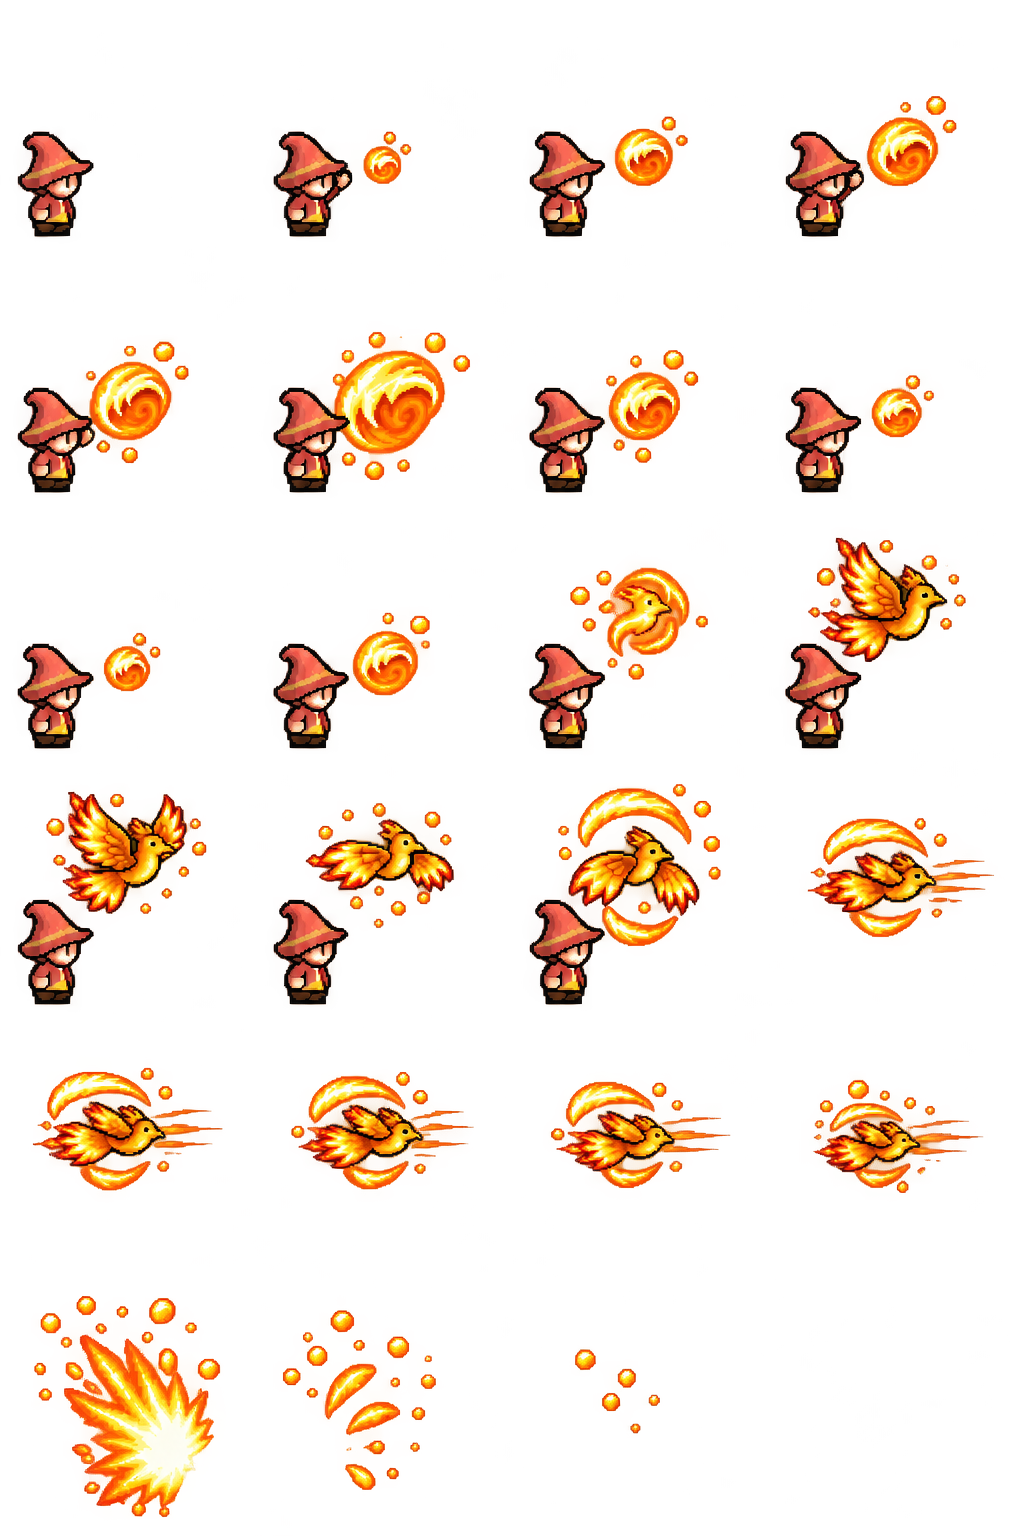
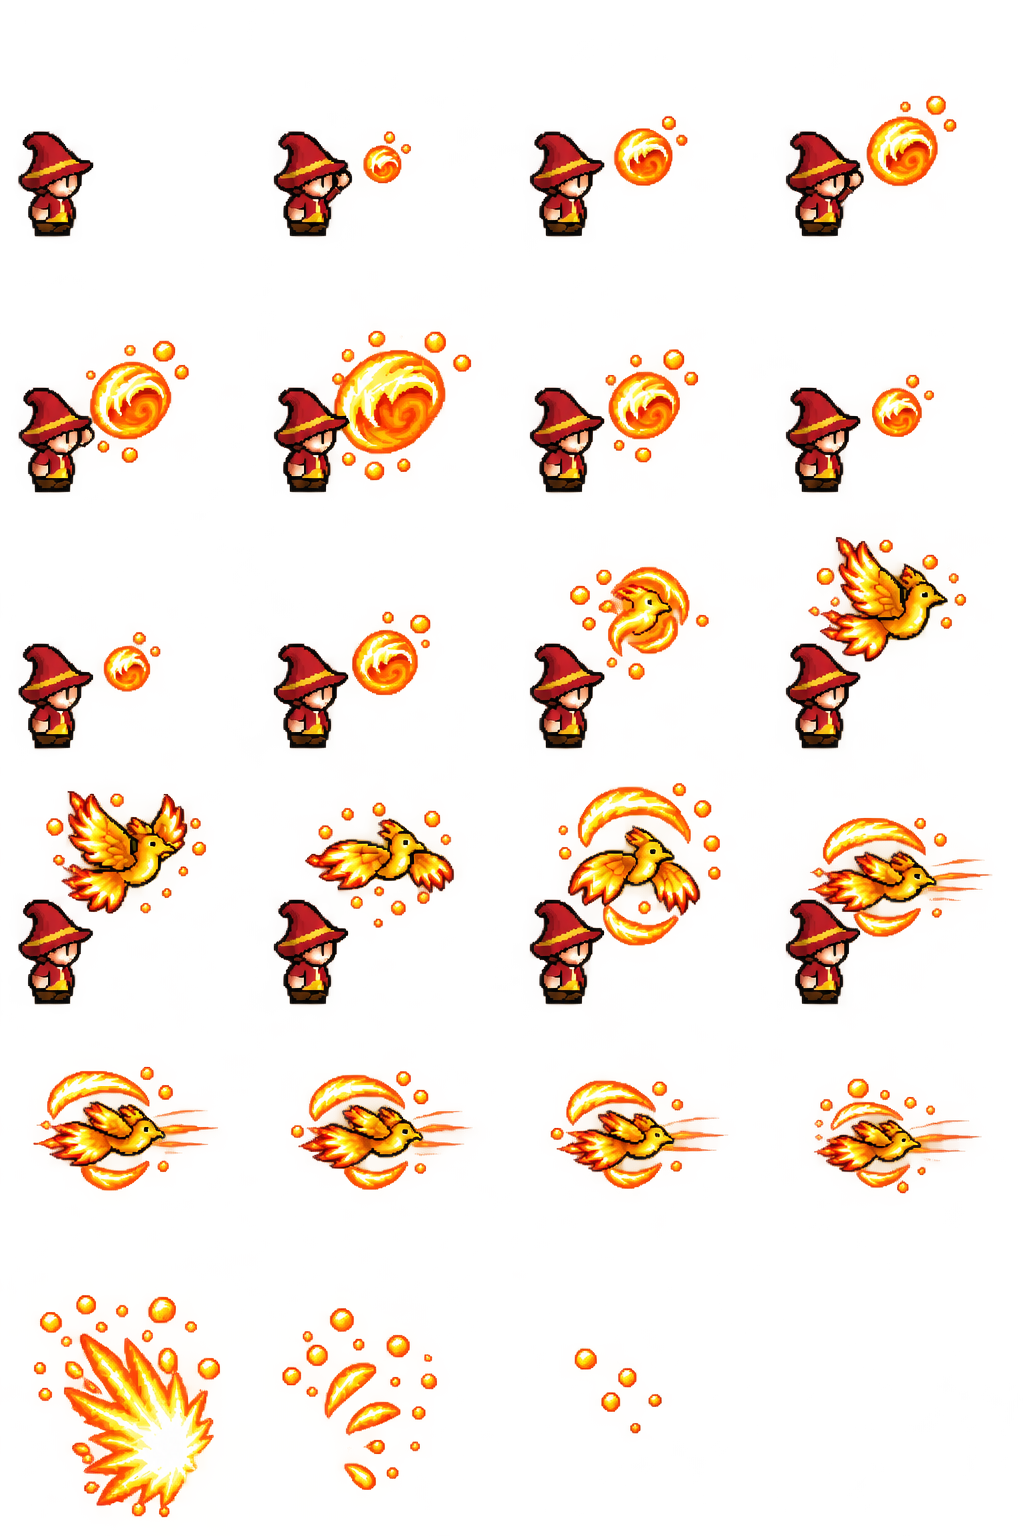
Match Xineoph caster reds and reduce Poseidon's Rift to six Mana

diff --git a/test/conditional-mana-migration.test.js b/test/conditional-mana-migration.test.js
@@ -502,12 +502,12 @@ test('migrated pending Fire-9 uses its new post-gain Mana condition once without
 });
 
 
-const previousCost = { 'Fire-11': 3, 'Water-12': 4 };
-function costSnapshotFresh(first = 0) {
+const previousCost = { 'Fire-11': 3, 'Water-12': 4, 'Water-14': 8 };
+function costSnapshotFresh(first = 0, waterSpell = 'Water-12') {
   const definition = (element, spellId, fateId) => ({ element, entries: [
     { spellId, quantity: 3 }, { spellId: fateId, quantity: 1 }, { spellId: 'FAT-003', quantity: 1 },
   ] });
-  let state = createGame(89, { fire: definition('fire', 'Fire-11', 'FAT-001'), water: definition('water', 'Water-12', 'FAT-002') });
+  let state = createGame(89, { fire: definition('fire', 'Fire-11', 'FAT-001'), water: definition('water', waterSpell, 'FAT-002') });
   state = rollInitiative(rollInitiative(state, 0, () => first === 0 ? .9 : 0), 1, () => first === 1 ? .9 : 0);
   for (const player of state.players) Object.assign(player, { mana: 10, element: 2, loadedPending: 2 });
   return state;
@@ -527,31 +527,31 @@ function previouslyPaidCostCast(state, spellId) {
   return cast;
 }
 
-test('current-text Fire-11 and Water-12 previous prices refresh across all zones without changing selected state', () => {
-  for (const first of [0, 1]) {
-    const current = costSnapshotFresh(first);
+test('current-text prior prices refresh across all zones without changing selected state or decklists', () => {
+  for (const waterSpell of ['Water-12', 'Water-14']) for (const first of [0, 1]) {
+    const current = costSnapshotFresh(first, waterSpell);
     for (const player of current.players) {
-      const spellId = player.id === 'fire' ? 'Fire-11' : 'Water-12';
+      const spellId = player.id === 'fire' ? 'Fire-11' : waterSpell;
       for (const zone of ['deck', 'discard']) player[zone].push(player.hand.splice(player.hand.findIndex(card => card.spellId === spellId), 1)[0]);
       Object.assign(player, { hp: 81, shield: 17, loaded: 4, enhancement: 20, auraTurns: 2 });
     }
-    const selected = selectCard(current, current.players[first].hand.find(card => card.spellId === (first === 0 ? 'Fire-11' : 'Water-12')).id);
+    const selected = selectCard(current, current.players[first].hand.find(card => card.spellId === (first === 0 ? 'Fire-11' : waterSpell)).id);
     const previous = previousCostSnapshots(selected), before = structuredClone(previous);
     assert.equal(validateSavedGame(previous), false);
     const upgraded = migrateSavedGame(previous);
     assert.deepEqual(upgraded, selected); assert.deepEqual(previous, before);
-    for (const player of upgraded.players) for (const card of cardsOf(player)) if (Object.hasOwn(previousCost, card.spellId)) assert.deepEqual([card.manaCost, card.cost], card.spellId === 'Fire-11' ? [2, 2] : [3, 3]);
+    for (const player of upgraded.players) for (const card of cardsOf(player)) if (Object.hasOwn(previousCost, card.spellId)) assert.deepEqual([card.manaCost, card.cost], [SPELL_CATALOG[card.spellId].manaCost, SPELL_CATALOG[card.spellId].manaCost]);
     assert.equal(migrateSavedGame(upgraded), upgraded);
     const newCast = castSelected(upgraded);
-    const cost = first === 0 ? 2 : 3;
+    const cost = first === 0 ? 2 : SPELL_CATALOG[waterSpell].manaCost;
     assert.equal(newCast.players[first].mana, 10 - cost);
     assert.match(newCast.log.findLast(entry => entry.type === 'cast').message, new RegExp(`for ${cost} mana`));
   }
 });
 
-test('previous three/four-Mana payments and cast logs survive price refresh through pending and completed rolls', () => {
-  for (const [spellId, first, finalMana] of [['Fire-11', 0, 8], ['Water-12', 1, 6]]) {
-    const rolling = previouslyPaidCostCast(costSnapshotFresh(first), spellId);
+test('previous Mana payments and cast logs survive price refresh through pending and completed rolls', () => {
+  for (const [spellId, first, finalMana] of [['Fire-11', 0, 8], ['Water-12', 1, 6], ['Water-14', 1, 2]]) {
+    const rolling = previouslyPaidCostCast(costSnapshotFresh(first, spellId.startsWith('Water') ? spellId : 'Water-12'), spellId);
     const fate = rollPair(rolling, [3, 4]), resolving = passFate(fate), completed = resolveSpell(resolving);
     assert.equal(completed.players[first].mana, finalMana);
     for (const current of [rolling, fate, resolving, completed]) {
@@ -572,15 +572,16 @@ test('previous three/four-Mana payments and cast logs survive price refresh thro
 });
 
 test('price refresh rejects mismatched fields, unknown prices and unpaired canonical descriptions', () => {
-  for (const spellId of ['Fire-11', 'Water-12']) {
+  for (const spellId of ['Fire-11', 'Water-12', 'Water-14']) {
     const currentCost = SPELL_CATALOG[spellId].manaCost;
+    const freshPrice = () => previousCostSnapshots(costSnapshotFresh(0, spellId.startsWith('Water') ? spellId : 'Water-12'));
     for (const [manaCost, cost] of [[previousCost[spellId], currentCost], [currentCost, previousCost[spellId]], [1, 1], [previousCost[spellId], undefined]]) {
-      const previous = previousCostSnapshots(costSnapshotFresh()), card = cardsOf(previous.players[spellId === 'Fire-11' ? 0 : 1]).find(card => card.spellId === spellId);
+      const previous = freshPrice(), card = cardsOf(previous.players[spellId === 'Fire-11' ? 0 : 1]).find(card => card.spellId === spellId);
       Object.assign(card, { manaCost, cost });
       assert.equal(migrateSavedGame(previous), null, `${spellId}: ${manaCost}/${cost}`);
     }
     for (const key of ['effectText', 'description']) {
-      const previous = previousCostSnapshots(costSnapshotFresh()), card = cardsOf(previous.players[spellId === 'Fire-11' ? 0 : 1]).find(card => card.spellId === spellId);
+      const previous = freshPrice(), card = cardsOf(previous.players[spellId === 'Fire-11' ? 0 : 1]).find(card => card.spellId === spellId);
       card[key] = 'Unexpected rules text.';
       assert.equal(migrateSavedGame(previous), null, `${spellId}: ${key}`);
     }

diff --git a/test/spell-visuals.test.js b/test/spell-visuals.test.js
@@ -106,20 +106,20 @@ test('damage routing covers Mana boundaries while Shield and power-up override t
   }
 });
 
-test('resumed casts at prior Fire-11 and Water-12 prices animate once without changing paid costs', () => {
-  for (const [spellId, casterIndex, oldCost] of [['Fire-11', 0, 3], ['Water-12', 1, 4]]) {
-    let initial = fresh({ fire: ['Fire-11'], water: ['Water-12'] });
+test('resumed casts at prior prices animate once without changing paid costs', () => {
+  for (const [spellId, casterIndex, oldCost, currentCost, kind] of [['Fire-11', 0, 3, 2, 'basic-attack'], ['Water-12', 1, 4, 3, 'basic-attack'], ['Water-14', 1, 8, 6, 'large-cast']]) {
+    let initial = fresh({ fire: ['Fire-11'], water: ['Water-12', 'Water-14'] });
     if (casterIndex === 1) initial = pass(initial);
     initial.players[casterIndex].mana = 10;
     const pending = cast(initial, spellId);
-    assert.equal(SPELL_CATALOG[spellId].manaCost, spellId === 'Fire-11' ? 2 : 3);
+    assert.equal(SPELL_CATALOG[spellId].manaCost, currentCost);
     pending.players[casterIndex].mana = 10 - oldCost;
     const commitment = pending.log.findLast(entry => entry.type === 'cast');
     commitment.message = `${pending.players[casterIndex].name} casts ${spellId} for ${oldCost} mana.`;
     const snapshot = structuredClone(pending), after = complete(pending);
     const events = getResolvedSpellVisuals(pending, after);
     assert.equal(events.length, 1);
-    assert.equal(events[0].spellId, spellId); assert.equal(events[0].kind, 'basic-attack');
+    assert.equal(events[0].spellId, spellId); assert.equal(events[0].kind, kind);
     assert.equal(events[0].manaCost, SPELL_CATALOG[spellId].manaCost);
     assert.equal(after.log.findLast(entry => entry.type === 'cast').message, commitment.message);
     assert.deepEqual(pending, snapshot);

diff --git a/test/game.test.js b/test/game.test.js
@@ -153,6 +153,20 @@ test('cast pays resources and consumes available Loaded once before any post-rol
   assert.equal(state.players[0].hand.length, 1); assert.equal(state.players[0].discard.length, 0);
   assert.equal(skipFate(state), state); assert.equal(castFateSelected(state), state);
   assert.equal(initial.players[0].mana, 6); assert.equal(initial.players[0].element, 4); assertGame(state);
+
+  const water = handOf(fresh({ first: 1, water: ['Water-14'] }), 1, ['Water-14']);
+  Object.assign(water.players[1], { mana: 5, element: 3, loaded: 2 });
+  const selected = selectCard(water, water.players[1].hand[0].id), before = structuredClone(selected);
+  assert.equal(canCastSelected(selected), false, "Poseidon's Rift cannot be cast for five Mana");
+  assert.equal(castSelected(selected), selected); assert.deepEqual(selected, before);
+  selected.players[1].mana = 6;
+  assert.equal(canCastSelected(selected), true, 'exactly six Mana is sufficient');
+  const pending = castSelected(selected);
+  assert.deepEqual([pending.phase, pending.players[1].mana, pending.players[1].loaded, pending.players[1].element], ['rolling', 0, 0, 3]);
+  assert.equal(pending.pendingSpell.loadedBonus, 2);
+  const resolved = complete(pending, [3, 3]);
+  assert.deepEqual([resolved.players[0].hp, resolved.players[1].mana, resolved.players[1].element], [58, 0, 4]);
+  assert.equal(resolveSpell(resolved), resolved); assertGame(resolved);
 });
 
 test('optional Ember bounds reject bad spending and Sunsetter holds its bank until resolution', () => {

diff --git a/test/decks.test.js b/test/decks.test.js
@@ -13,7 +13,7 @@ import {
 
 const legal = element => ({ element, entries: getEligibleSpells(element).slice(0, 10).map(card => ({ spellId: card.spellId, quantity: 3 })) });
 
-test('the sole active book has the requested names, stable IDs, current effects and original costs and art', () => {
+test('the sole active book has the requested names, stable IDs, current effects, costs and art', () => {
   const expected = {
     'Fire-2': ['Heatbox', 1, 'Gain 1 Ember. On a 7+, gain 2 Embers instead. On a 10+, gain 3 instead.'],
     'Fire-15': ['Blaze', 0, 'Gain 1 Ember. On a 6+, gain 1 Mana.'],
@@ -24,7 +24,7 @@ test('the sole active book has the requested names, stable IDs, current effects 
     'Water-0': ['Swell', 0, 'Gain 1 Mana on cast. On a 7+, gain 1 additional Flow after resolution.'],
     'Water-12': ['Coral Crash', 3, 'Deal 12 + 2 × Flow damage. On a 7+, heal 2 HP per Flow.'],
     'Water-9': ['Pacific', 2, 'Deal 6 + 2 × Flow damage. Gain 1 additional Flow after resolution. On a 10+, deal 5 additional damage.'],
-    'Water-14': ["Poseidon's Rift", 8, 'Deal 15 + 5 × Flow damage. On an 8+, deal 12 additional damage.'],
+    'Water-14': ["Poseidon's Rift", 6, 'Deal 15 + 5 × Flow damage. On an 8+, deal 12 additional damage.'],
   };
   assert.equal(ACTIVE_SPELLBOOK_ID, SPELLBOOK_2);
   assert.equal(getActiveSpells().length, 13);

diff --git a/test/effects.test.js b/test/effects.test.js
@@ -121,7 +121,7 @@ test('the current collection completely replaces old IDs and has no starter comp
   }
   assert.deepEqual([MAX_HP, MAX_MANA, MAX_SHIELD, MAX_FLOW, MAX_EMBERS], [100, 10, 30, 5, 5]);
   assert.deepEqual(Object.values(SPELL_CATALOG).filter(s => s.element === 'Fire').map(s => s.manaCost), [0,1,1,2,2,3,5,7,2,2,3,2,4,6,8,0]);
-  assert.deepEqual(Object.values(SPELL_CATALOG).filter(s => s.element === 'Water').map(s => s.manaCost), [0,1,1,2,2,3,5,7,2,2,3,3,3,6,8]);
+  assert.deepEqual(Object.values(SPELL_CATALOG).filter(s => s.element === 'Water').map(s => s.manaCost), [0,1,1,2,2,3,5,7,2,2,3,3,3,6,6]);
   assert.equal(SOURCE_INFO.playableSpellCount, 13);
   assert.deepEqual(SOURCE_INFO.additionalSpells, ['Fire-0', 'Fire-15', 'Water-0']);
   assert.deepEqual([SOURCE_INFO.spellbook.librarySpellCount, SOURCE_INFO.spellbook.importedSpellCount], [31, 31]);

diff --git a/src/optimized-art.js b/src/optimized-art.js
@@ -296,9 +296,9 @@ export const OPTIMIZED_ART = {
[1 lines of base64/hex data omitted]
   },
   "phoenixFireAnimation": {
-    "file": "phoenixFireAnimation-681863dcf00a.webp",
[2 lines of base64/hex data omitted]
+    "file": "phoenixFireAnimation-a5ecc11edabf.webp",
[2 lines of base64/hex data omitted]
   },
   "pacificDolphinAnimation": {
     "file": "pacificDolphinAnimation-ab0c236a41be.webp",

diff --git a/src/spell-visuals.js b/src/spell-visuals.js
@@ -72,7 +72,7 @@ function castSpellId(entry, player) {
   const visual = getSpellVisual(spellId);
   if (!visual || visual.element.toLowerCase() !== player.id) return null;
   // Resumed casts keep their historical payment while using current visuals.
-  const previousCost = spellId === 'Fire-11' ? 3 : spellId === 'Water-12' ? 4 : null;
+  const previousCost = spellId === 'Fire-11' ? 3 : spellId === 'Water-12' ? 4 : spellId === 'Water-14' ? 8 : null;
   const legacyCost = previousCost !== null && entry.message === `${prefix}${printedName} for ${previousCost} mana.`;
   return entry.message.startsWith(`${prefix}${printedName} for ${visual.manaCost} mana`) || legacyCost ? spellId : null;
 }

diff --git a/src/spells.js b/src/spells.js
@@ -57,7 +57,7 @@ const water = [
   [11, 3, 'Deal 8 + Flow damage and gain +2 to your next roll. On a 7+, gain 1 additional Flow after resolution.'],
   [12, 3, 'Deal 12 + 2 × Flow damage. On a 7+, heal 2 HP per Flow.'],
   [13, 6, 'Deal 20 + 3 × Flow damage. On a 7+, deal 10 additional damage.'],
-  [14, 8, 'Deal 15 + 5 × Flow damage. On an 8+, deal 12 additional damage.'],
+  [14, 6, 'Deal 15 + 5 × Flow damage. On an 8+, deal 12 additional damage.'],
 ];
 const purposes = ['Basic attack', 'Early identity', 'Defensive utility', 'Strategic preparation', 'Specialized damage', 'Heavy attack', 'Signature spell'];
 const fate = (id, name, role, effectText) => Object.freeze({

diff --git a/test/named-spellbook-migration.test.js b/test/named-spellbook-migration.test.js
@@ -87,7 +87,7 @@ test('pending and completed named spells preserve paid costs and old log text wh
 });
 
 test('legacy paid prices remain historical through rename migration and animation collection', () => {
-  for (const [spellId, playerIndex, oldCost] of [['Fire-11', 0, 3], ['Water-12', 1, 4]]) {
+  for (const [spellId, playerIndex, oldCost] of [['Fire-11', 0, 3], ['Water-12', 1, 4], ['Water-14', 1, 8]]) {
     const previous = oldNames(rolling(spellId));
     const paid = previous.players[playerIndex], card = paid.hand[0];
     paid.mana += card.manaCost - oldCost; card.manaCost = card.cost = oldCost;

diff --git a/src/game.js b/src/game.js
@@ -836,7 +836,7 @@ function refreshCurrentSpellCards(state) {
     'Fire-15': ['Gain 1 Ember and 1 Mana.', 'Gain 1 Ember. On a 7+, gain 1 Mana.'],
     'Water-0': ['Gain 1 Mana.', 'On a 7+, gain 1 Mana.'],
   };
-  const previousCosts = { 'Fire-11': 3, 'Water-12': 4 };
+  const previousCosts = { 'Fire-11': 3, 'Water-12': 4, 'Water-14': 8 };
   let changed = false;
   const upgradedWaterCards = new Set();
   const upgradedSunsetterCards = new Set();

diff --git a/README.md b/README.md
@@ -34,7 +34,7 @@ For two phones on the same Wi-Fi, run `npm run build:web` followed by `npm run m
 
 The title screen opens a Home map using the clean pixel-art Seattle landmark illustration, with draggable/zoomable city, water and islands. The approved **rough 8-bit Home UI** is now live: navy/indigo framing with wood and parchment details around the header, map, zoom toolbar and navigation buttons. **Fit / 1×** fills the map panel; the header, zoom toolbar and navigation dock stay outside the city. The same 14 grey district markers **1–12, 14 and 15** open **Storybook** with only that district expanded. Queen Anne is merged into **15, Seattle Center**; marker 13 and 4.5 are removed, and **14 is South Lake Union**. Storybook shows a minimal **Mainquest N** label and assigned boss name per district; unassigned bosses are left blank. Its beige pixel-paper theme uses the slab cards' font style. The general Storybook button above Character opens all districts collapsed, and leaving the book clears expanded entries. Markers open this view rather than district mini-maps. The red blinking dot remains a preview position; GPS gating, quest completion, rewards and photo uploads are not implemented. Home also links to Character, Deck, Friends and Battle. Character keeps a wizard name and Fire/Water choice and links to account sign-in. Friends provides room-code battles; friend lists, invitations and messaging remain later additions.
 
-Inside **Deck**, the sole current spellbook contains **Heatbox, Blaze, Charred Blade, Xineoph and Sunsetter; Sea bolt, Swell, Coral Crash, Pacific and Poseidon's Rift; and Fortune, Misfortune and Twist**. Charred Blade uses Fire-6 and replaces Fire-5 from the former testing collection. Stable IDs and Mana costs are retained. Each held Ember grants +5% Fire damage, up to +25%, then is consumed by the next outgoing damaging Fire spell before that spell grants new Embers. Charred Blade now deals 20 damage, or 30 and gains 2 Embers on 7+; Sunsetter deals 55 damage, or 65 on 8+, without an Ember-spending cost. Blaze gains Mana on 6+. Xineoph uses the approved solid-gold phoenix with flowing light blades, sparkles and a subtle fiery background; Charred Blade keeps its rough pixel-art flaming sword. The old Spellbook 1/2 switch is removed; the former testing collection is now the active book. Existing current decks are preferred, while earlier decks are retained for backup and review. **The 5%-per-Ember damage bonus is consumed on a damaging Fire spell, not at round end.**
+Inside **Deck**, the sole current spellbook contains **Heatbox, Blaze, Charred Blade, Xineoph and Sunsetter; Sea bolt, Swell, Coral Crash, Pacific and Poseidon's Rift; and Fortune, Misfortune and Twist**. Charred Blade uses Fire-6 and replaces Fire-5 from the former testing collection. Stable IDs are retained; Poseidon's Rift now costs 6 Mana. Each held Ember grants +5% Fire damage, up to +25%, then is consumed by the next outgoing damaging Fire spell before that spell grants new Embers. Charred Blade now deals 20 damage, or 30 and gains 2 Embers on 7+; Sunsetter deals 55 damage, or 65 on 8+, without an Ember-spending cost. Blaze gains Mana on 6+. Xineoph uses the approved solid-gold phoenix with flowing light blades, sparkles and a subtle fiery background; Charred Blade keeps its rough pixel-art flaming sword. The old Spellbook 1/2 switch is removed; the former testing collection is now the active book. Existing current decks are preferred, while earlier decks are retained for backup and review. **The 5%-per-Ember damage bonus is consumed on a damaging Fire spell, not at round end.**
 
 The deck builder places a scrollable selected-deck list in the upper half and a slab collection in the lower half, with four cards per collection row. Check a slab to add its first copy, use the quantity controls to add or remove further copies, and uncheck it to remove all copies. Filters cover All, Fire, Water, Fate, and slabs currently in the deck. The collection shows only the current named spellbook’s slabs; only those eligible for the chosen main element can be added.
 

diff --git a/docs/decklists.md b/docs/decklists.md
@@ -2,7 +2,7 @@
 
 The game exposes one active spellbook containing **13 unique slabs: five Fire, five Water and three Fate**. The former Spellbook 1 selector is removed. The former testing collection is now the current collection, with Fire-6 replacing Fire-5. Stable internal IDs retain saved-file and artwork references; the following names appear on live cards, deck lists, inspections and new combat logs.
 
-Mana costs and stable IDs are retained. **Each held Ember grants +5% outgoing Fire damage, up to +25%, and the held bank is consumed by the next damaging Fire spell before that spell grants new Embers.** Embers have no turn or round expiry. Charred Blade, Sunsetter and Blaze use the revised effects below. Xineoph and Pacific use dedicated phoenix and dolphin animations; their card artwork, the flaming sword, Water Flow, Fate timing, Enhancement and Aura remain unchanged.
+Stable IDs are retained; Poseidon's Rift now costs 6 Mana. **Each held Ember grants +5% outgoing Fire damage, up to +25%, and the held bank is consumed by the next damaging Fire spell before that spell grants new Embers.** Embers have no turn or round expiry. Charred Blade, Sunsetter and Blaze use the revised effects below. Xineoph and Pacific use dedicated phoenix and dolphin animations; their card artwork, the flaming sword, Water Flow, Fate timing, Enhancement and Aura remain unchanged.
 
 ## Active cards
 
@@ -17,7 +17,7 @@ Mana costs and stable IDs are retained. **Each held Ember grants +5% outgoing Fi
 | Water-0 | Swell | 0 | Gain 1 Mana on cast. On 7+, gain 1 additional Flow after resolution. |
 | Water-12 | Coral Crash | 3 | Deal 12 + 2 × Flow damage. On 7+, heal 2 HP per Flow. |
 | Water-9 | Pacific | 2 | Deal 6 + 2 × Flow damage. Gain 1 additional Flow after resolution. On 10+, deal 5 additional damage. |
-| Water-14 | Poseidon's Rift | 8 | Deal 15 + 5 × Flow damage. On 8+, deal 12 additional damage. |
+| Water-14 | Poseidon's Rift | 6 | Deal 15 + 5 × Flow damage. On 8+, deal 12 additional damage. |
 | FAT-001 | Fortune | 0 | +4 to the Modified Roll when attacking. |
 | FAT-002 | Misfortune | 0 | −4 to the Modified Roll when defending. |
 | FAT-003 | Twist | 0 | Choose +2 or −2 to the Modified Roll. |
